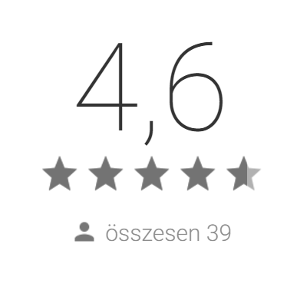
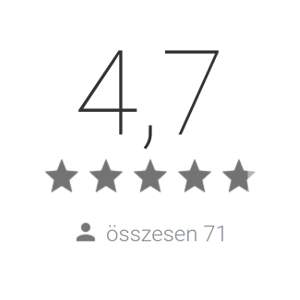
book rating update

diff --git a/book/index.html b/book/index.html
@@ -100,7 +100,7 @@
                 </div>
                 <div class="mbr-section__container mbr-section__container--last" style="padding-bottom: 93px;">
                     <div class="mbr-article mbr-article--wysiwyg">
-                        <p>4,6-os értékelést kapott a Google Play áruházban.</p>
+                        <p>4,7-es értékelést kapott a Google Play áruházban.</p>
                     </div>
                 </div>
                 
